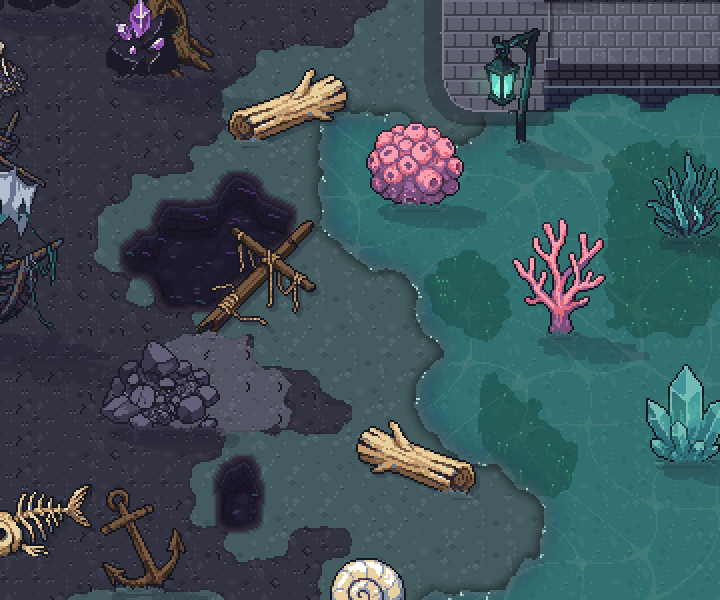
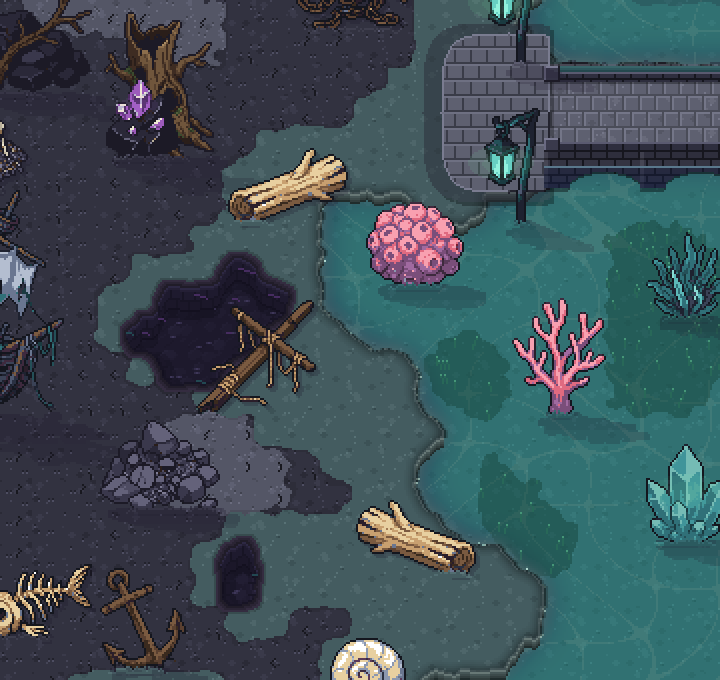
Karte 11: Flachwasser minimal tiefer als das Land (Boeschung an der Nordseite, Seitenkontur, helle Uferkante)
Claude-Session: https://claude.ai/code/session_01SaoYHKhnro4LFcPJqjaPsq

diff --git a/tools/karte11_bauen.py b/tools/karte11_bauen.py
@@ -459,6 +459,20 @@ def bauen(frame=None, speichern=True):
     wasser &= ~plattform & ~bruecke_m & ~em[2]
     flach &= wasser
     meer_zeichnen(a, wasser, flach, seetang, frame)
+    # Wasser minimal tiefer als das Land: an der Nordseite des Wassers zeigt das hoehere Ufer eine kleine Boeschung
+    # (4 px: helle Uferkante, Sandwand, nasser dunkler Fuss), an den Seiten nur eine schmale Kontur
+    land_ = ~wasser
+    boe = np.zeros(wasser.shape, np.int8)
+    for k_ in range(5, 0, -1):
+        boe[wasser & np.roll(land_, k_, 0)] = k_
+    farben_b = {1: (104, 120, 118), 2: (70, 86, 86), 3: (60, 74, 74), 4: (50, 62, 62), 5: (32, 44, 44)}
+    for k_, c_ in farben_b.items():
+        a[boe == k_] = c_
+    for k_, fa in ((1, 0.62), (2, 0.8)):                            # Seiten: schmale Kontur mit Schatten ins Wasser
+        seite = wasser & (np.roll(land_, k_, 1) | np.roll(land_, -k_, 1)) & (boe == 0)
+        a[seite] = (a[seite] * fa).astype(np.uint8)
+    lippe = land_ & (np.roll(wasser, 1, 1) | np.roll(wasser, -1, 1) | np.roll(wasser, -1, 0))   # helle Uferkante an Land
+    a[lippe] = np.clip(a[lippe].astype(int) + 22, 0, 255).astype(np.uint8)
     # Tiefsee im Stil des Flusses von Karte 01: Wassertextur, vertiefte Stufen mit Kanten (5 Stufen ueber die ganze
     # Meeresbreite bis zum Kartenrand), danach fuer das Meer der Finsternis abgedunkelt (Struktur bleibt erhalten)
     tief = (wasser & ~flach) | plattform | bruecke_m          # das Meer laeuft unter Plattform und Bruecke durch
